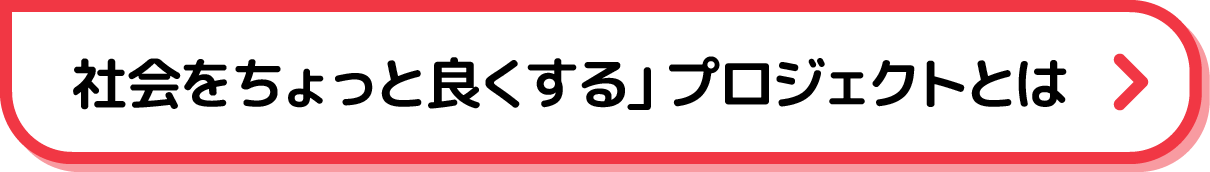
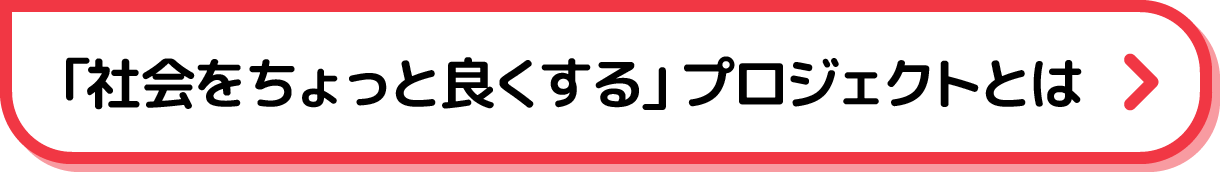
修正

diff --git a/index.html b/index.html
@@ -78,8 +78,14 @@
     </section>
 
     <section class="top-how">
-      <div class="top-how__main-img">
-        <img src="assets/img/top/how-main.png" alt="プロジェクト参加者募集！！">
+      <div class="top-how__main-img-lead fade-in-js">
+        <img src="assets/img/top/how-main-lead.png" alt="プロジェクト参加者募集！！">
+      </div>
+      <div class="top-how__main-img-top fade-in-js fade-zoom-big">
+        <img src="assets/img/top/how-main-top.png" alt="プロジェクト参加者募集！！">
+      </div>
+      <div class="top-how__main-img-bottom fade-in-js">
+        <img src="assets/img/top/how-main-bottom.png" alt="対象：山口県内の高校に通っているみなさん">
       </div>
       <h2 class="page-top__ttl fade-in-js fade-up">
         <img src="assets/img/top/how-ttl.png" alt="たとえば こんなこと、やってみませんか">
@@ -102,7 +108,7 @@
       </div>
       <div class="top-how__btn-wrap">
         <a href="" class="top-how__btn fade-in-js">
-          <img src="assets/img/top/how-btn.png" alt="社会をちょっと良くする」プロジェクトとは">
+          <img src="assets/img/top/how-btn.png" alt="「社会をちょっと良くする」プロジェクトとは">
         </a>
       </div>
     </section>
@@ -253,7 +259,7 @@
               <p class="news-card__ttl">お知らせタイトル</p>
             </div>
           </a>
-          
+
           <a href="#" class="news-card__item">
             <div class="news-card__img">
               <img src="assets/img/top/news02.png" alt="">
@@ -337,7 +343,7 @@
       <div class="site-footer__bottom">
         <p class="site-footer__bottom-text">じもと米プロジェクト実行委員会事務局<br class="sp-block">（平生港運株式会社内）<br>
           〒742-1107<br>
-          山口県熊毛郡平尾町曽根209-1<br>
+          山口県熊毛郡平生町曽根209-1<br>
           TEL：0820-56-3154</p>
       </div>
     </div>

diff --git a/assets/css/style.css b/assets/css/style.css
@@ -83,19 +83,50 @@
     padding: 0 16px 40px;
   }
 }
-.top-how__main-img {
+.top-how__main-img-lead {
   max-width: 800px;
-  margin: 0 auto 100px;
+  margin: 0 auto 24px;
 }
 @media (max-width: 820px) {
-  .top-how__main-img {
+  .top-how__main-img-lead {
     max-width: 560px;
-    margin: 0 auto 40px;
+    margin: 0 auto 12px;
   }
 }
 @media (max-width: 600px) {
-  .top-how__main-img {
+  .top-how__main-img-lead {
     max-width: 360px;
+  }
+}
+.top-how__main-img-top {
+  max-width: 800px;
+  margin: 0 auto;
+}
+@media (max-width: 820px) {
+  .top-how__main-img-top {
+    max-width: 560px;
+    margin: 0 auto;
+  }
+}
+@media (max-width: 600px) {
+  .top-how__main-img-top {
+    max-width: 360px;
+  }
+}
+.top-how__main-img-bottom {
+  max-width: 800px;
+  margin: -110px auto 100px;
+}
+@media (max-width: 820px) {
+  .top-how__main-img-bottom {
+    max-width: 560px;
+    margin: -80px auto 40px;
+  }
+}
+@media (max-width: 600px) {
+  .top-how__main-img-bottom {
+    max-width: 360px;
+    margin: -50px auto 40px;
   }
 }
 .top-how__content {

diff --git a/css/style.css b/css/style.css
@@ -83,19 +83,50 @@
     padding: 0 16px 40px;
   }
 }
-.top-how__main-img {
+.top-how__main-img-lead {
   max-width: 800px;
-  margin: 0 auto 100px;
+  margin: 0 auto 24px;
 }
 @media (max-width: 820px) {
-  .top-how__main-img {
+  .top-how__main-img-lead {
     max-width: 560px;
-    margin: 0 auto 40px;
+    margin: 0 auto 12px;
   }
 }
 @media (max-width: 600px) {
-  .top-how__main-img {
+  .top-how__main-img-lead {
     max-width: 360px;
+  }
+}
+.top-how__main-img-top {
+  max-width: 800px;
+  margin: 0 auto;
+}
+@media (max-width: 820px) {
+  .top-how__main-img-top {
+    max-width: 560px;
+    margin: 0 auto;
+  }
+}
+@media (max-width: 600px) {
+  .top-how__main-img-top {
+    max-width: 360px;
+  }
+}
+.top-how__main-img-bottom {
+  max-width: 800px;
+  margin: -110px auto 100px;
+}
+@media (max-width: 820px) {
+  .top-how__main-img-bottom {
+    max-width: 560px;
+    margin: -80px auto 40px;
+  }
+}
+@media (max-width: 600px) {
+  .top-how__main-img-bottom {
+    max-width: 360px;
+    margin: -50px auto 40px;
   }
 }
 .top-how__content {

diff --git a/jimotomai.html b/jimotomai.html
@@ -259,7 +259,7 @@
         <p>
           じもと米プロジェクト実行委員会事務局<br class="sp-block">（平生港運株式会社内）<br>
           〒742-1107<br>
-          山口県熊毛郡平尾町曽根 209-1<br>
+          山口県熊毛郡平生町曽根 209-1<br>
           TEL：<a href="tel:0820563154">0820-56-3154</a><br>
           E-mail：<a href="mailto:otoiawase@yamaguchi-sdgs.com">otoiawase@yamaguchi-sdgs.com</a>
         </p>
@@ -305,7 +305,7 @@
       <div class="site-footer__bottom">
         <p class="site-footer__bottom-text">じもと米プロジェクト実行委員会事務局<br class="sp-block">（平生港運株式会社内）<br>
           〒742-1107<br>
-          山口県熊毛郡平尾町曽根209-1<br>
+          山口県熊毛郡平生町曽根209-1<br>
           TEL：0820-56-3154</p>
       </div>
     </div>

diff --git a/privacy.html b/privacy.html
@@ -205,7 +205,7 @@
           <p>本ポリシーに関するお問い合わせは，下記の窓口までお願いいたします。</p>
           <p>じもと米プロジェクト実行委員会事務局<br>（平生港運株式会社内）<br>
             〒742-1107<br>
-            山口県熊毛郡平尾町曽根209-1<br>
+            山口県熊毛郡平生町曽根209-1<br>
             TEL : 0820-56-3154<br>
           </p>
         </div>
@@ -247,7 +247,7 @@
       <div class="site-footer__bottom">
         <p class="site-footer__bottom-text">じもと米プロジェクト実行委員会事務局<br class="sp-block">（平生港運株式会社内）<br>
           〒742-1107<br>
-          山口県熊毛郡平尾町曽根209-1<br>
+          山口県熊毛郡平生町曽根209-1<br>
           TEL：0820-56-3154</p>
       </div>
     </div>

diff --git a/assets/css/_top.scss b/assets/css/_top.scss
@@ -90,17 +90,47 @@
     padding: 0 16px 40px;
   }
 
-  &__main-img {
+    &__main-img-lead {
     max-width: 800px;
-    margin: 0 auto 100px;
+    margin: 0 auto 24px;
 
     @include tab {
       max-width: 560px;
-      margin: 0 auto 40px;
+      margin: 0 auto 12px;
     }
 
     @include sp {
       max-width: 360px;
+    }
+  }
+
+  &__main-img-top {
+    max-width: 800px;
+    margin: 0 auto;
+
+    @include tab {
+      max-width: 560px;
+      margin: 0 auto;
+    }
+
+    @include sp {
+      max-width: 360px;
+    }
+  }
+
+    &__main-img-bottom {
+    max-width: 800px;
+    margin: -110px auto 100px;
+
+    @include tab {
+      max-width: 560px;
+      margin: -80px auto 40px;
+    }
+
+    @include sp {
+      max-width: 360px;
+            margin: -50px auto 40px;
+
     }
   }
 

diff --git a/ambassador.html b/ambassador.html
@@ -329,7 +329,7 @@
       <div class="site-footer__bottom">
         <p class="site-footer__bottom-text">じもと米プロジェクト実行委員会事務局<br class="sp-block">（平生港運株式会社内）<br>
           〒742-1107<br>
-          山口県熊毛郡平尾町曽根209-1<br>
+          山口県熊毛郡平生町曽根209-1<br>
           TEL：0820-56-3154</p>
       </div>
     </div>

diff --git a/contact.html b/contact.html
@@ -196,7 +196,7 @@
       <div class="site-footer__bottom">
         <p class="site-footer__bottom-text">じもと米プロジェクト実行委員会事務局<br class="sp-block">（平生港運株式会社内）<br>
           〒742-1107<br>
-          山口県熊毛郡平尾町曽根209-1<br>
+          山口県熊毛郡平生町曽根209-1<br>
           TEL：0820-56-3154</p>
       </div>
     </div>

diff --git a/entry-form.html b/entry-form.html
@@ -254,7 +254,7 @@
       <div class="site-footer__bottom">
         <p class="site-footer__bottom-text">じもと米プロジェクト実行委員会事務局<br class="sp-block">（平生港運株式会社内）<br>
           〒742-1107<br>
-          山口県熊毛郡平尾町曽根209-1<br>
+          山口県熊毛郡平生町曽根209-1<br>
           TEL：0820-56-3154</p>
       </div>
     </div>

diff --git a/guidelines.html b/guidelines.html
@@ -262,7 +262,7 @@
       <div class="site-footer__bottom">
         <p class="site-footer__bottom-text">じもと米プロジェクト実行委員会事務局<br class="sp-block">（平生港運株式会社内）<br>
           〒742-1107<br>
-          山口県熊毛郡平尾町曽根209-1<br>
+          山口県熊毛郡平生町曽根209-1<br>
           TEL：0820-56-3154</p>
       </div>
     </div>

diff --git a/news.html b/news.html
@@ -252,7 +252,7 @@
       <div class="site-footer__bottom">
         <p class="site-footer__bottom-text">じもと米プロジェクト実行委員会事務局<br class="sp-block">（平生港運株式会社内）<br>
           〒742-1107<br>
-          山口県熊毛郡平尾町曽根209-1<br>
+          山口県熊毛郡平生町曽根209-1<br>
           TEL：0820-56-3154</p>
       </div>
     </div>

diff --git a/page-.html b/page-.html
@@ -121,7 +121,7 @@
       <div class="site-footer__bottom">
         <p class="site-footer__bottom-text">じもと米プロジェクト実行委員会事務局<br class="sp-block">（平生港運株式会社内）<br>
           〒742-1107<br>
-          山口県熊毛郡平尾町曽根209-1<br>
+          山口県熊毛郡平生町曽根209-1<br>
           TEL：0820-56-3154</p>
       </div>
     </div>
